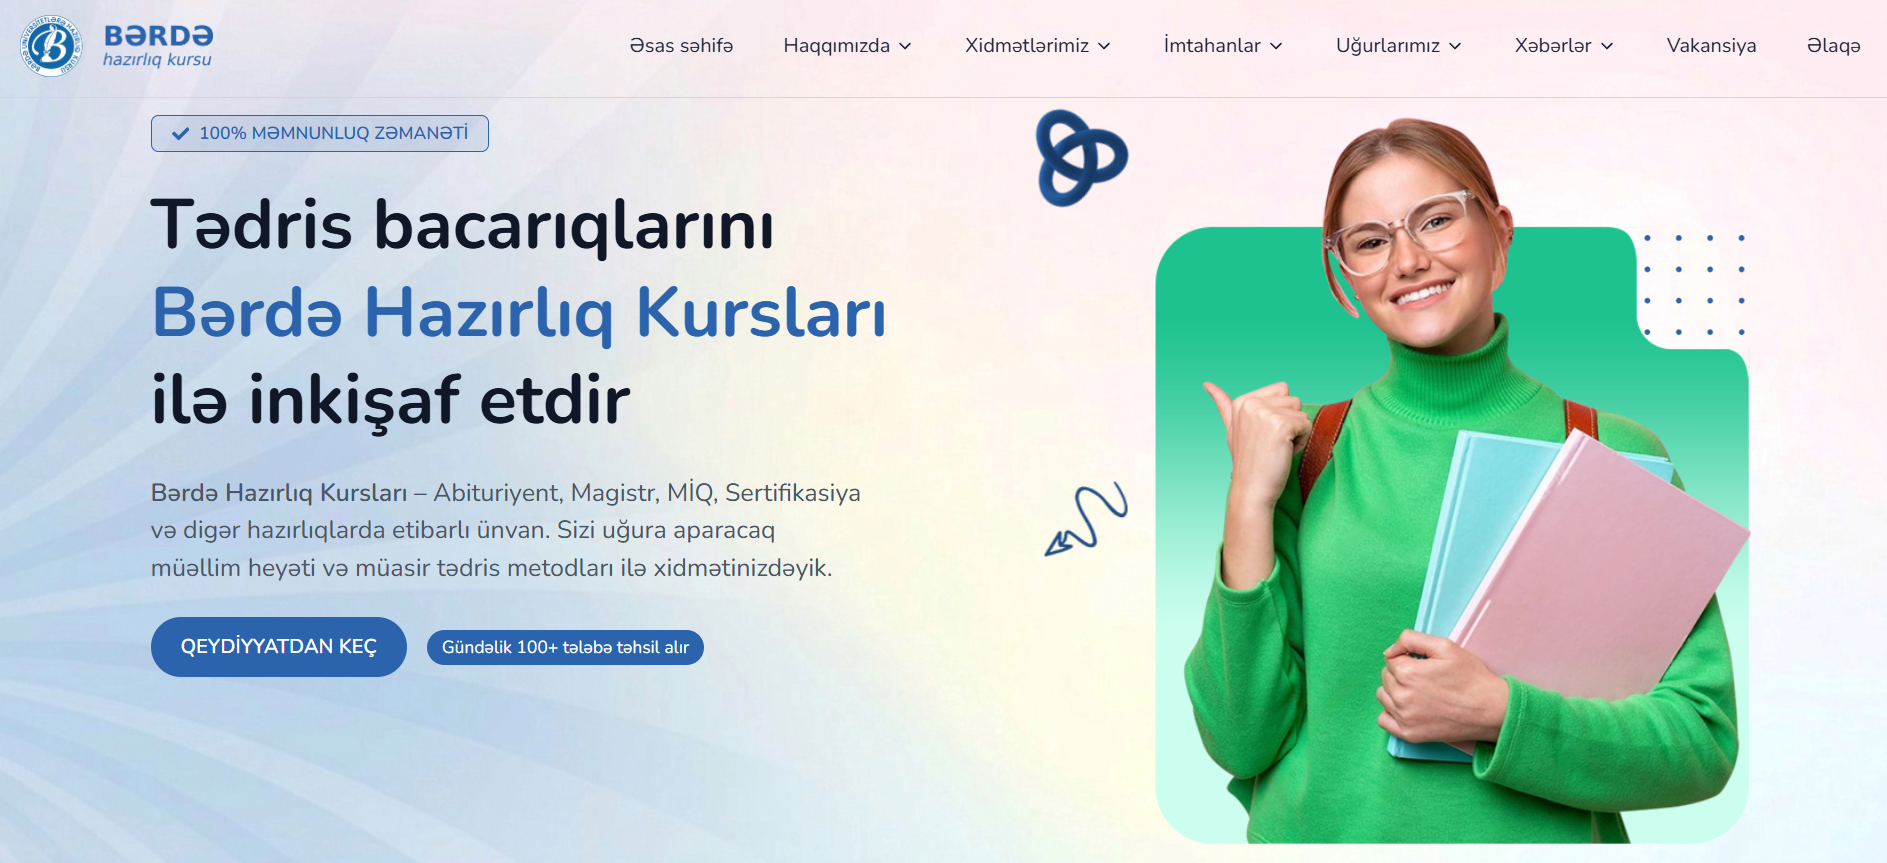
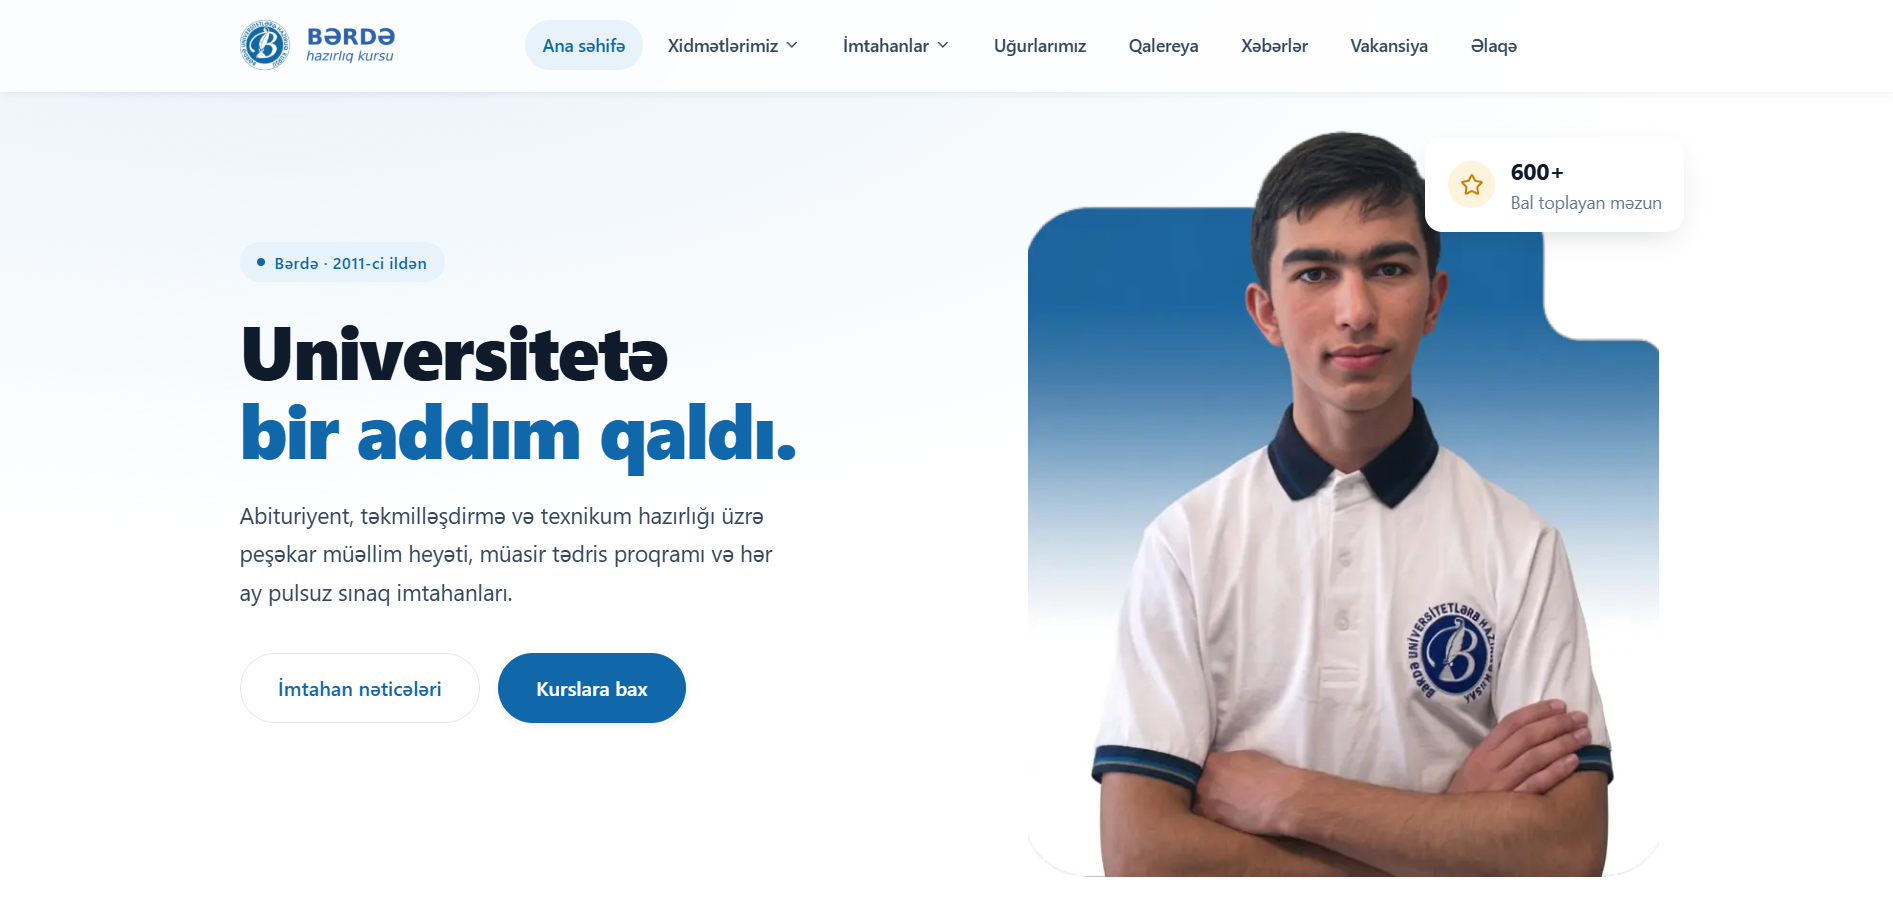
updated bhk card

diff --git a/src/components/WorkCard/WorkCard.tsx b/src/components/WorkCard/WorkCard.tsx
@@ -9,7 +9,7 @@ type WorkCardProps = {
   description: string;
   technologies: string;
   link: string;
-  repoLink: string;
+  repoLink?: string;
   img: string;
   template: boolean;
   templateLabel?: string;
@@ -90,15 +90,17 @@ const WorkCard = ({
               <Link size={16} />
             </div>
           </a>
-          <a
-            href={repoLink}
-            target="_blank"
-            onClick={(e) => e.stopPropagation()}
-          >
-            <div className="bg-input/70 border-2 border-border rounded-full p-3 cursor-pointer hover:bg-input transition-colors">
-              <Github size={16} />
-            </div>
-          </a>
+          {repoLink && (
+            <a
+              href={repoLink}
+              target="_blank"
+              onClick={(e) => e.stopPropagation()}
+            >
+              <div className="bg-input/70 border-2 border-border rounded-full p-3 cursor-pointer hover:bg-input transition-colors">
+                <Github size={16} />
+              </div>
+            </a>
+          )}
         </div>
       </motion.div>
     </motion.div>

diff --git a/src/data/workCards.ts b/src/data/workCards.ts
@@ -4,7 +4,7 @@ export type WorkCardItem = {
   description: string;
   technologies: string;
   link: string;
-  repoLink: string;
+  repoLink?: string;
   img: string;
   template: boolean;
 };
@@ -38,8 +38,7 @@ export const WORK_CARDS: WorkCardItem[] = [
     description:
       "A modern educational platform developed for Bərdə Hazırlıq Kursları, designed to provide students with information about courses, programs, and educational opportunities.",
     link: "https://berdehazirliqkurslari.com/",
-    repoLink: "https://github.com/Sakiff/bhk",
-    technologies: "HTML5 · CSS3 · Tailwind · JavaScript · React · Node.js ",
+    technologies: "Next.js · Tailwind",
     img: "/assets/bhk.png",
     template: false,
   },
